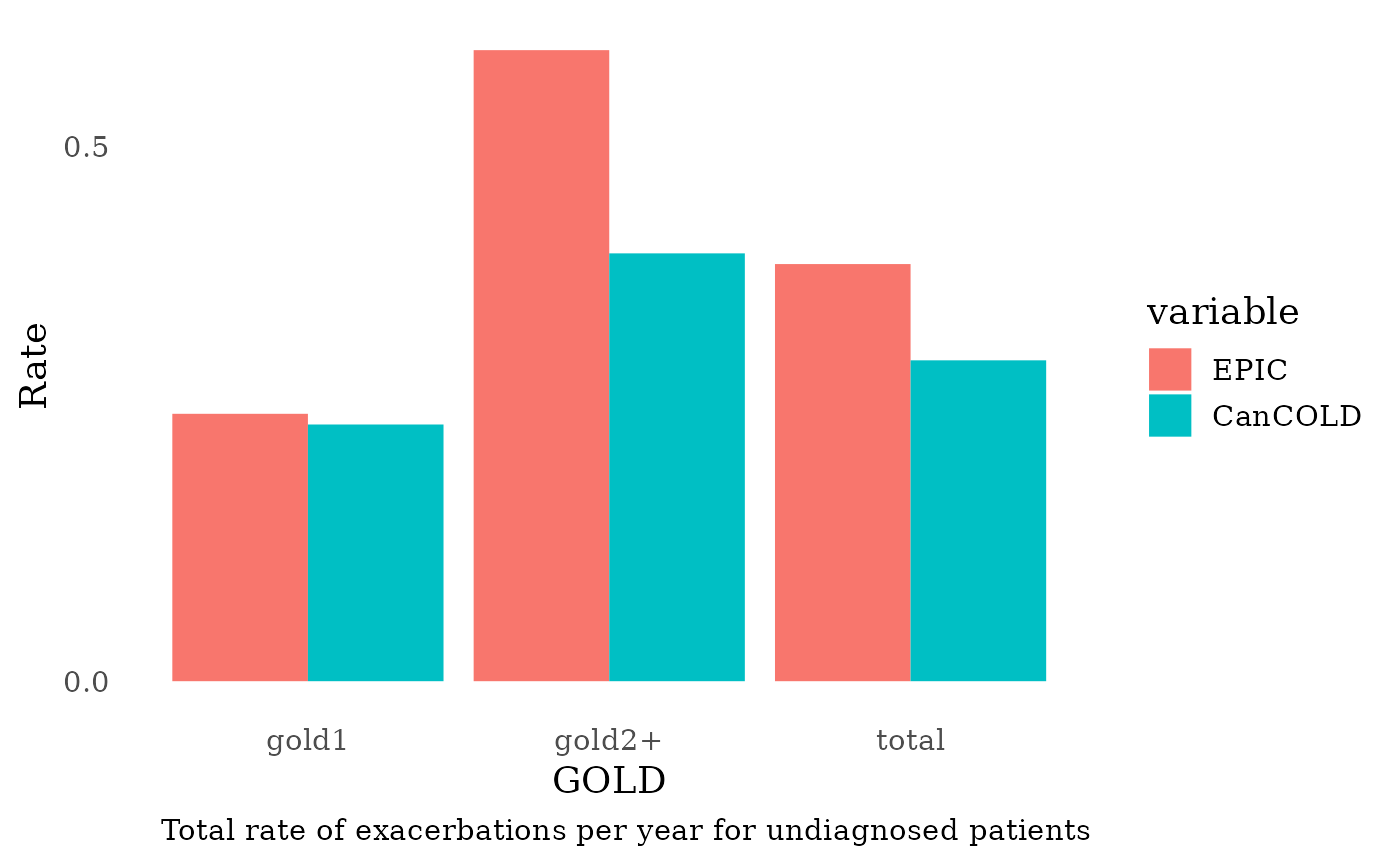
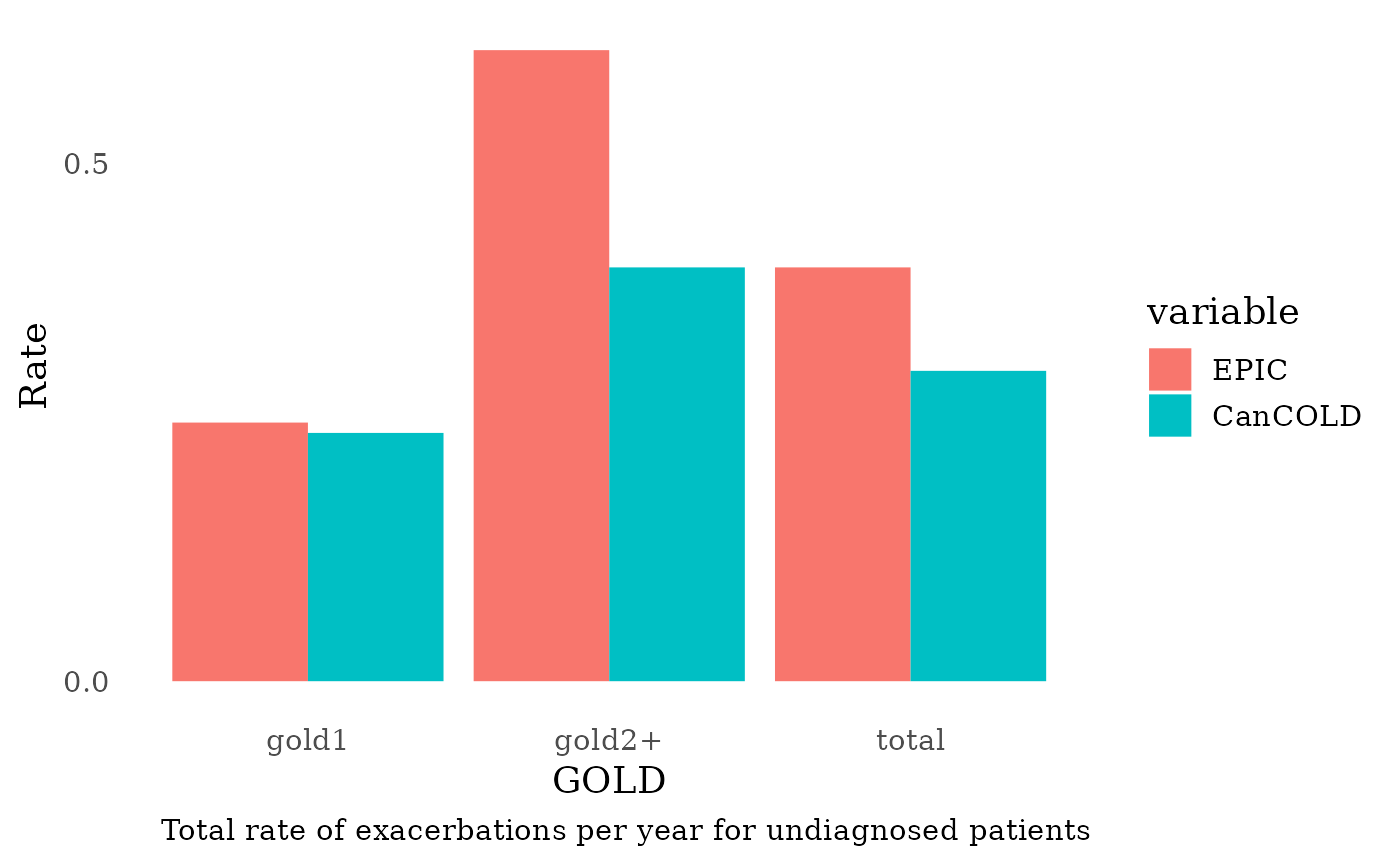
Deploying to gh-pages from @ resplab/epicR@5d6936fe53877a9249361b047093ab6b889c331c 🚀

diff --git a/articles/GettingStarted.html b/articles/GettingStarted.html
@@ -204,47 +204,47 @@
 <span><span class="va">events</span> <span class="op">&lt;-</span> <span class="fu"><a href="https://rdrr.io/r/base/as.data.frame.html" class="external-link">as.data.frame</a></span><span class="op">(</span><span class="fu"><a href="../reference/Cget_all_events_matrix.html">Cget_all_events_matrix</a></span><span class="op">(</span><span class="op">)</span><span class="op">)</span></span>
 <span><span class="fu"><a href="https://rdrr.io/r/utils/head.html" class="external-link">head</a></span><span class="op">(</span><span class="va">events</span><span class="op">)</span></span>
 <span><span class="co">#&gt;   id local_time female time_at_creation age_at_creation pack_years gold event</span></span>
-<span><span class="co">#&gt; 1  0   0.000000      1                0        84.23043   13.91126    2     0</span></span>
-<span><span class="co">#&gt; 2  0   1.000000      1                0        84.23043   13.91126    2     1</span></span>
-<span><span class="co">#&gt; 3  0   1.346997      1                0        84.23043   13.91126    2     5</span></span>
-<span><span class="co">#&gt; 4  0   1.375933      1                0        84.23043   13.91126    2     6</span></span>
-<span><span class="co">#&gt; 5  0   2.000000      1                0        84.23043   13.91126    2     1</span></span>
-<span><span class="co">#&gt; 6  0   3.000000      1                0        84.23043   13.91126    2     1</span></span>
-<span><span class="co">#&gt;       FEV1  FEV1_slope FEV1_acceleration pred_FEV1 smoking_status</span></span>
-<span><span class="co">#&gt; 1 1.201492 -0.01260423          -0.00146  1.816672              0</span></span>
-<span><span class="co">#&gt; 2 1.184508 -0.01260423          -0.00146  1.780187              0</span></span>
-<span><span class="co">#&gt; 3 1.184508 -0.01260423          -0.00146  1.780187              0</span></span>
-<span><span class="co">#&gt; 4 1.184508 -0.01260423          -0.00146  1.780187              0</span></span>
-<span><span class="co">#&gt; 5 1.164604 -0.01260423          -0.00146  1.743313              0</span></span>
-<span><span class="co">#&gt; 6 1.141780 -0.01260423          -0.00146  1.706052              0</span></span>
-<span><span class="co">#&gt;   localtime_at_COPD age_at_COPD weight_at_COPD   height followup_after_COPD</span></span>
-<span><span class="co">#&gt; 1                 0    84.23043       50.59558 1.632521                   0</span></span>
-<span><span class="co">#&gt; 2                 0    84.23043       50.59558 1.632521                   1</span></span>
-<span><span class="co">#&gt; 3                 0    84.23043       50.59558 1.632521                   1</span></span>
-<span><span class="co">#&gt; 4                 0    84.23043       50.59558 1.632521                   1</span></span>
-<span><span class="co">#&gt; 5                 0    84.23043       50.59558 1.632521                   2</span></span>
-<span><span class="co">#&gt; 6                 0    84.23043       50.59558 1.632521                   3</span></span>
-<span><span class="co">#&gt;   FEV1_baseline exac_status cough phlegm wheeze dyspnea gpvisits diagnosis</span></span>
-<span><span class="co">#&gt; 1      1.201492           0     0      1      0       0        0         1</span></span>
-<span><span class="co">#&gt; 2      1.201492           0     1      1      1       1        3         1</span></span>
-<span><span class="co">#&gt; 3      1.201492           2     1      1      1       1        3         1</span></span>
-<span><span class="co">#&gt; 4      1.201492           0     1      1      1       1        3         1</span></span>
-<span><span class="co">#&gt; 5      1.201492           0     0      0      0       1        4         1</span></span>
-<span><span class="co">#&gt; 6      1.201492           0     0      0      0       1        5         1</span></span>
-<span><span class="co">#&gt;   medication_status case_detection cumul_cost cumul_qaly time_at_diagnosis</span></span>
-<span><span class="co">#&gt; 1                 0              0      0.000  0.0000000                 0</span></span>
-<span><span class="co">#&gt; 2                 0              0    347.424  0.6990291                 0</span></span>
-<span><span class="co">#&gt; 3                 4              0    470.005  0.7112668                 0</span></span>
-<span><span class="co">#&gt; 4                 4              0   1234.338  0.6959381                 0</span></span>
-<span><span class="co">#&gt; 5                 4              0   1812.443  1.3971967                 0</span></span>
-<span><span class="co">#&gt; 6                 4              0   2513.129  2.0896844                 0</span></span>
+<span><span class="co">#&gt; 1  0          0      1                0        52.78487   18.06797    0     0</span></span>
+<span><span class="co">#&gt; 2  0          1      1                0        52.78487   18.06797    0     1</span></span>
+<span><span class="co">#&gt; 3  0          2      1                0        52.78487   18.06797    0     1</span></span>
+<span><span class="co">#&gt; 4  0          3      1                0        52.78487   18.06797    0     1</span></span>
+<span><span class="co">#&gt; 5  0          4      1                0        52.78487   18.06797    0     1</span></span>
+<span><span class="co">#&gt; 6  0          5      1                0        52.78487   18.06797    0    14</span></span>
+<span><span class="co">#&gt;   FEV1 FEV1_slope FEV1_acceleration pred_FEV1 smoking_status localtime_at_COPD</span></span>
+<span><span class="co">#&gt; 1    0          0                 0         0              0                 0</span></span>
+<span><span class="co">#&gt; 2    0          0                 0         0              0                 0</span></span>
+<span><span class="co">#&gt; 3    0          0                 0         0              0                 0</span></span>
+<span><span class="co">#&gt; 4    0          0                 0         0              0                 0</span></span>
+<span><span class="co">#&gt; 5    0          0                 0         0              0                 0</span></span>
+<span><span class="co">#&gt; 6    0          0                 0         0              0                 0</span></span>
+<span><span class="co">#&gt;   age_at_COPD weight_at_COPD   height followup_after_COPD FEV1_baseline</span></span>
+<span><span class="co">#&gt; 1           0              0 1.578002                   0      4.408892</span></span>
+<span><span class="co">#&gt; 2           0              0 1.578002                   0      4.408892</span></span>
+<span><span class="co">#&gt; 3           0              0 1.578002                   0      4.408892</span></span>
+<span><span class="co">#&gt; 4           0              0 1.578002                   0      4.408892</span></span>
+<span><span class="co">#&gt; 5           0              0 1.578002                   0      4.408892</span></span>
+<span><span class="co">#&gt; 6           0              0 1.578002                   0      4.408892</span></span>
+<span><span class="co">#&gt;   exac_status cough phlegm wheeze dyspnea gpvisits diagnosis medication_status</span></span>
+<span><span class="co">#&gt; 1           0     0      1      0       0        0         0                 0</span></span>
+<span><span class="co">#&gt; 2           0     0      0      0       0        2         0                 0</span></span>
+<span><span class="co">#&gt; 3           0     0      0      0       0        5         0                 0</span></span>
+<span><span class="co">#&gt; 4           0     0      0      0       1        1         0                 0</span></span>
+<span><span class="co">#&gt; 5           0     0      0      0       1        3         0                 0</span></span>
+<span><span class="co">#&gt; 6           0     0      0      0       1        3         0                 0</span></span>
+<span><span class="co">#&gt;   case_detection cumul_cost cumul_qaly time_at_diagnosis</span></span>
+<span><span class="co">#&gt; 1              0          0  0.0000000                 0</span></span>
+<span><span class="co">#&gt; 2              0          0  0.8349515                 0</span></span>
+<span><span class="co">#&gt; 3              0          0  1.6455839                 0</span></span>
+<span><span class="co">#&gt; 4              0          0  2.4326058                 0</span></span>
+<span><span class="co">#&gt; 5              0          0  3.1967046                 0</span></span>
+<span><span class="co">#&gt; 6              0          0  3.9385482                 0</span></span>
 <span><span class="co">#&gt;   exac_history_n_moderate exac_history_n_severe_plus</span></span>
 <span><span class="co">#&gt; 1                       0                          0</span></span>
 <span><span class="co">#&gt; 2                       0                          0</span></span>
-<span><span class="co">#&gt; 3                       1                          0</span></span>
-<span><span class="co">#&gt; 4                       1                          0</span></span>
-<span><span class="co">#&gt; 5                       1                          0</span></span>
-<span><span class="co">#&gt; 6                       1                          0</span></span>
+<span><span class="co">#&gt; 3                       0                          0</span></span>
+<span><span class="co">#&gt; 4                       0                          0</span></span>
+<span><span class="co">#&gt; 5                       0                          0</span></span>
+<span><span class="co">#&gt; 6                       0                          0</span></span>
 <span><span class="fu"><a href="../reference/terminate_session.html">terminate_session</a></span><span class="op">(</span><span class="op">)</span></span>
 <span><span class="co">#&gt; Terminating the session</span></span>
 <span><span class="co">#&gt; [1] 0</span></span></code></pre></div>
@@ -320,34 +320,34 @@
 <span><span class="co">#&gt; [1] 60001</span></span>
 <span><span class="co">#&gt; </span></span>
 <span><span class="co">#&gt; $cumul_time</span></span>
-<span><span class="co">#&gt; [1] 999204.4</span></span>
+<span><span class="co">#&gt; [1] 999628.6</span></span>
 <span><span class="co">#&gt; </span></span>
 <span><span class="co">#&gt; $n_deaths</span></span>
-<span><span class="co">#&gt; [1] 20240</span></span>
+<span><span class="co">#&gt; [1] 20219</span></span>
 <span><span class="co">#&gt; </span></span>
 <span><span class="co">#&gt; $n_COPD</span></span>
-<span><span class="co">#&gt; [1] 11785</span></span>
+<span><span class="co">#&gt; [1] 11741</span></span>
 <span><span class="co">#&gt; </span></span>
 <span><span class="co">#&gt; $total_exac</span></span>
-<span><span class="co">#&gt; [1] 10992 51968  4882   382</span></span>
+<span><span class="co">#&gt; [1] 11477 53152  4868   363</span></span>
 <span><span class="co">#&gt; </span></span>
 <span><span class="co">#&gt; $total_exac_time</span></span>
-<span><span class="co">#&gt; [1]  1.80415 10.75754 10.09833  1.18936</span></span>
+<span><span class="co">#&gt; [1]  2.013558 10.201966 10.076048  1.159686</span></span>
 <span><span class="co">#&gt; </span></span>
 <span><span class="co">#&gt; $total_pack_years</span></span>
-<span><span class="co">#&gt; [1] 853696.1</span></span>
+<span><span class="co">#&gt; [1] 855856.9</span></span>
 <span><span class="co">#&gt; </span></span>
 <span><span class="co">#&gt; $total_doctor_visit</span></span>
 <span><span class="co">#&gt; [1] 0 0</span></span>
 <span><span class="co">#&gt; </span></span>
 <span><span class="co">#&gt; $total_cost</span></span>
-<span><span class="co">#&gt; [1] 178947578</span></span>
+<span><span class="co">#&gt; [1] 180040015</span></span>
 <span><span class="co">#&gt; </span></span>
 <span><span class="co">#&gt; $total_qaly</span></span>
-<span><span class="co">#&gt; [1] 639526.7</span></span>
+<span><span class="co">#&gt; [1] 639715</span></span>
 <span><span class="co">#&gt; </span></span>
 <span><span class="co">#&gt; $total_diagnosed_time</span></span>
-<span><span class="co">#&gt; [1] 41890.52</span></span>
+<span><span class="co">#&gt; [1] 42024.45</span></span>
 <span><span class="fu"><a href="../reference/terminate_session.html">terminate_session</a></span><span class="op">(</span><span class="op">)</span></span>
 <span><span class="co">#&gt; Terminating the session</span></span>
 <span><span class="co">#&gt; [1] 0</span></span></code></pre></div>

diff --git a/articles/RecalibratingEPIC.html b/articles/RecalibratingEPIC.html
@@ -90,18 +90,18 @@
 <span><span class="co">#&gt; Initializing the session</span></span>
 <span><span class="co">#&gt; Terminating the session</span></span>
 <span><span class="co">#&gt; Exacerbation Rates per GOLD stages for all patients:</span></span>
-<span><span class="co">#&gt; exacRateGOLDI   = 0.29</span></span>
+<span><span class="co">#&gt; exacRateGOLDI   = 0.28</span></span>
 <span><span class="co">#&gt; exacRateGOLDII  = 0.53</span></span>
-<span><span class="co">#&gt; exacRateGOLDIII = 0.78</span></span>
-<span><span class="co">#&gt; exacRateGOLDIV  = 1.08</span></span>
+<span><span class="co">#&gt; exacRateGOLDIII = 0.8</span></span>
+<span><span class="co">#&gt; exacRateGOLDIV  = 1.12</span></span>
 <span><span class="co">#&gt; Total rate of exacerbation in all patients (0.39 per year in CanCOLD): 0.47</span></span>
 <span><span class="co">#&gt; Is the rate of severe and very severe exacerbations around 477 per CIHI?</span></span>
-<span><span class="co">#&gt; Average rate during 20 years: 438.94</span></span>
-<span><span class="co">#&gt; Rate in 2017: 341.22</span></span></code></pre></div>
+<span><span class="co">#&gt; Average rate during 20 years: 432.5</span></span>
+<span><span class="co">#&gt; Rate in 2017: 358.86</span></span></code></pre></div>
 <p><img src="RecalibratingEPIC_files/figure-html/validation-1.png" width="700"></p>
-<pre><code><span><span class="co">#&gt; Total rate of exacerbation in diagnosed patients (1.5 per year in Hoogendoorn): 0.88</span></span></code></pre>
+<pre><code><span><span class="co">#&gt; Total rate of exacerbation in diagnosed patients (1.5 per year in Hoogendoorn): 0.87</span></span></code></pre>
 <p><img src="RecalibratingEPIC_files/figure-html/validation-2.png" width="700"><img src="RecalibratingEPIC_files/figure-html/validation-3.png" width="700"></p>
-<pre><code><span><span class="co">#&gt; Total rate of exacerbation in undiagnosed patients (0.30 per year in CanCOLD): 0.25</span></span></code></pre>
+<pre><code><span><span class="co">#&gt; Total rate of exacerbation in undiagnosed patients (0.30 per year in CanCOLD): 0.24</span></span></code></pre>
 <p><img src="RecalibratingEPIC_files/figure-html/validation-4.png" width="700"></p>
 <p>The current input equation for exacerbations include a term for diagnosis: -3.4, 0, 0.004082, 0, 0, 1.4, 2, 2.4, 2.8, 0.9</p>
 <p>As a result, whether a person is diagnosed or not will affect the exacerbation rates, which does not have causal face validity, and is particularly undesirable for case detection studies that assess diagnosis.</p>
@@ -113,17 +113,17 @@
 <span><span class="co">#&gt; Terminating the session</span></span>
 <span><span class="co">#&gt; Exacerbation Rates per GOLD stages for all patients:</span></span>
 <span><span class="co">#&gt; exacRateGOLDI   = 0.51</span></span>
-<span><span class="co">#&gt; exacRateGOLDII  = 0.87</span></span>
+<span><span class="co">#&gt; exacRateGOLDII  = 0.86</span></span>
 <span><span class="co">#&gt; exacRateGOLDIII = 1.41</span></span>
-<span><span class="co">#&gt; exacRateGOLDIV  = 1.67</span></span>
-<span><span class="co">#&gt; Total rate of exacerbation in all patients (0.39 per year in CanCOLD): 0.79</span></span>
+<span><span class="co">#&gt; exacRateGOLDIV  = 1.72</span></span>
+<span><span class="co">#&gt; Total rate of exacerbation in all patients (0.39 per year in CanCOLD): 0.8</span></span>
 <span><span class="co">#&gt; Is the rate of severe and very severe exacerbations around 477 per CIHI?</span></span>
-<span><span class="co">#&gt; Average rate during 20 years: 737.68</span></span>
-<span><span class="co">#&gt; Rate in 2017: 742.77</span></span></code></pre></div>
+<span><span class="co">#&gt; Average rate during 20 years: 723.6</span></span>
+<span><span class="co">#&gt; Rate in 2017: 686.78</span></span></code></pre></div>
 <p><img src="RecalibratingEPIC_files/figure-html/validationNewEquation-1.png" width="700"></p>
-<pre><code><span><span class="co">#&gt; Total rate of exacerbation in diagnosed patients (1.5 per year in Hoogendoorn): 1.14</span></span></code></pre>
+<pre><code><span><span class="co">#&gt; Total rate of exacerbation in diagnosed patients (1.5 per year in Hoogendoorn): 1.16</span></span></code></pre>
 <p><img src="RecalibratingEPIC_files/figure-html/validationNewEquation-2.png" width="700"><img src="RecalibratingEPIC_files/figure-html/validationNewEquation-3.png" width="700"></p>
-<pre><code><span><span class="co">#&gt; Total rate of exacerbation in undiagnosed patients (0.30 per year in CanCOLD): 0.5</span></span></code></pre>
+<pre><code><span><span class="co">#&gt; Total rate of exacerbation in undiagnosed patients (0.30 per year in CanCOLD): 0.51</span></span></code></pre>
 <p><img src="RecalibratingEPIC_files/figure-html/validationNewEquation-4.png" width="700"></p>
 <p>Let’s try to improve that by lowering GOLD coefficients:</p>
 <div class="sourceCode" id="cb8"><pre class="downlit sourceCode r">
@@ -134,17 +134,37 @@
 <span><span class="co">#&gt; Exacerbation Rates per GOLD stages for all patients:</span></span>
 <span><span class="co">#&gt; exacRateGOLDI   = 0.39</span></span>
 <span><span class="co">#&gt; exacRateGOLDII  = 0.7</span></span>
-<span><span class="co">#&gt; exacRateGOLDIII = 1.41</span></span>
-<span><span class="co">#&gt; exacRateGOLDIV  = 1.59</span></span>
-<span><span class="co">#&gt; Total rate of exacerbation in all patients (0.39 per year in CanCOLD): 0.66</span></span>
+<span><span class="co">#&gt; exacRateGOLDIII = 1.43</span></span>
+<span><span class="co">#&gt; exacRateGOLDIV  = 1.64</span></span>
+<span><span class="co">#&gt; Total rate of exacerbation in all patients (0.39 per year in CanCOLD): 0.67</span></span>
 <span><span class="co">#&gt; Is the rate of severe and very severe exacerbations around 477 per CIHI?</span></span>
-<span><span class="co">#&gt; Average rate during 20 years: 683.52</span></span>
-<span><span class="co">#&gt; Rate in 2017: 573.93</span></span></code></pre></div>
+<span><span class="co">#&gt; Average rate during 20 years: 665.59</span></span>
+<span><span class="co">#&gt; Rate in 2017: 552.89</span></span></code></pre></div>
 <p><img src="RecalibratingEPIC_files/figure-html/validationNewEquation2-1.png" width="700"></p>
-<pre><code><span><span class="co">#&gt; Total rate of exacerbation in diagnosed patients (1.5 per year in Hoogendoorn): 0.99</span></span></code></pre>
+<pre><code><span><span class="co">#&gt; Total rate of exacerbation in diagnosed patients (1.5 per year in Hoogendoorn): 1</span></span></code></pre>
 <p><img src="RecalibratingEPIC_files/figure-html/validationNewEquation2-2.png" width="700"><img src="RecalibratingEPIC_files/figure-html/validationNewEquation2-3.png" width="700"></p>
-<pre><code><span><span class="co">#&gt; Total rate of exacerbation in undiagnosed patients (0.30 per year in CanCOLD): 0.39</span></span></code></pre>
+<pre><code><span><span class="co">#&gt; Total rate of exacerbation in undiagnosed patients (0.30 per year in CanCOLD): 0.4</span></span></code></pre>
 <p><img src="RecalibratingEPIC_files/figure-html/validationNewEquation2-4.png" width="700"></p>
+<p>We can now lower GOLD2 coefficient even more and perhaps increase smoking coefficient to compensate for the loss in the diagnosed patients.</p>
+<div class="sourceCode" id="cb11"><pre class="downlit sourceCode r">
+<code class="sourceCode R"><span><span class="va">inputs</span><span class="op">$</span><span class="va">exacerbation</span><span class="op">$</span><span class="va">ln_rate_betas</span> <span class="op">&lt;-</span> <span class="fu"><a href="https://rdrr.io/r/base/t.html" class="external-link">t</a></span><span class="op">(</span><span class="fu"><a href="https://rdrr.io/r/base/matrix.html" class="external-link">as.matrix</a></span><span class="op">(</span><span class="fu"><a href="https://rdrr.io/r/base/c.html" class="external-link">c</a></span><span class="op">(</span>intercept <span class="op">=</span> <span class="fl">1.7</span>, female <span class="op">=</span> <span class="fl">0</span>, age <span class="op">=</span> <span class="fl">0.04082</span> <span class="op">*</span> <span class="fl">0.1</span>, fev1 <span class="op">=</span> <span class="op">-</span><span class="fl">1.5</span>, smoking_status <span class="op">=</span> <span class="fl">0.5</span>, gold1 <span class="op">=</span> <span class="fl">0.3</span> , gold2 <span class="op">=</span> <span class="fl">0.05</span> , gold3 <span class="op">=</span> <span class="fl">0.08</span> , gold4 <span class="op">=</span> <span class="op">-</span><span class="fl">0.35</span> , diagnosis_effect <span class="op">=</span> <span class="fl">0</span><span class="op">)</span><span class="op">)</span><span class="op">)</span></span>
+<span><span class="fu"><a href="../reference/validate_exacerbation.html">validate_exacerbation</a></span><span class="op">(</span><span class="fl">5e4</span>, <span class="va">inputs</span><span class="op">)</span></span>
+<span><span class="co">#&gt; Initializing the session</span></span>
+<span><span class="co">#&gt; Terminating the session</span></span>
+<span><span class="co">#&gt; Exacerbation Rates per GOLD stages for all patients:</span></span>
+<span><span class="co">#&gt; exacRateGOLDI   = 0.4</span></span>
+<span><span class="co">#&gt; exacRateGOLDII  = 0.7</span></span>
+<span><span class="co">#&gt; exacRateGOLDIII = 1.52</span></span>
+<span><span class="co">#&gt; exacRateGOLDIV  = 1.8</span></span>
+<span><span class="co">#&gt; Total rate of exacerbation in all patients (0.39 per year in CanCOLD): 0.68</span></span>
+<span><span class="co">#&gt; Is the rate of severe and very severe exacerbations around 477 per CIHI?</span></span>
+<span><span class="co">#&gt; Average rate during 20 years: 684.66</span></span>
+<span><span class="co">#&gt; Rate in 2017: 622.91</span></span></code></pre></div>
+<p><img src="RecalibratingEPIC_files/figure-html/validationNewEquation3-1.png" width="700"></p>
+<pre><code><span><span class="co">#&gt; Total rate of exacerbation in diagnosed patients (1.5 per year in Hoogendoorn): 1</span></span></code></pre>
+<p><img src="RecalibratingEPIC_files/figure-html/validationNewEquation3-2.png" width="700"><img src="RecalibratingEPIC_files/figure-html/validationNewEquation3-3.png" width="700"></p>
+<pre><code><span><span class="co">#&gt; Total rate of exacerbation in undiagnosed patients (0.30 per year in CanCOLD): 0.41</span></span></code></pre>
+<p><img src="RecalibratingEPIC_files/figure-html/validationNewEquation3-4.png" width="700"></p>
   </div>
 
   <div class="col-md-3 hidden-xs hidden-sm" id="pkgdown-sidebar">
